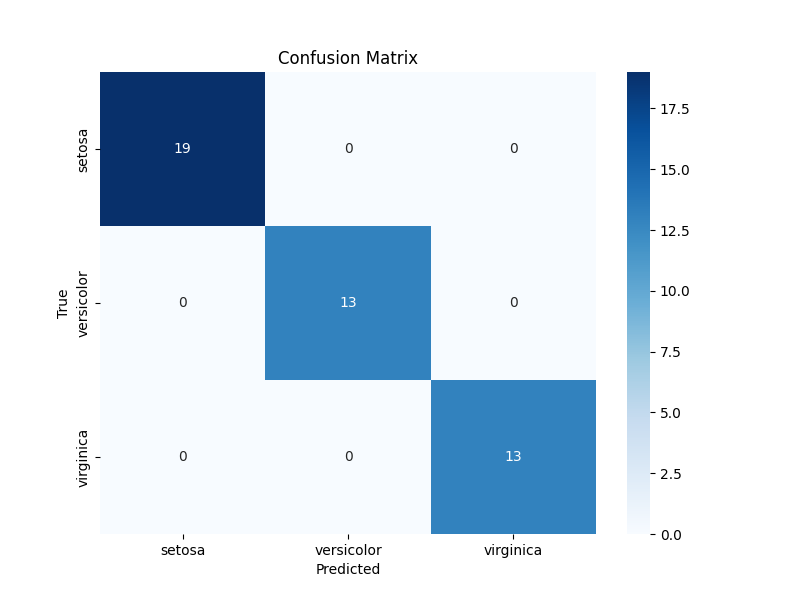
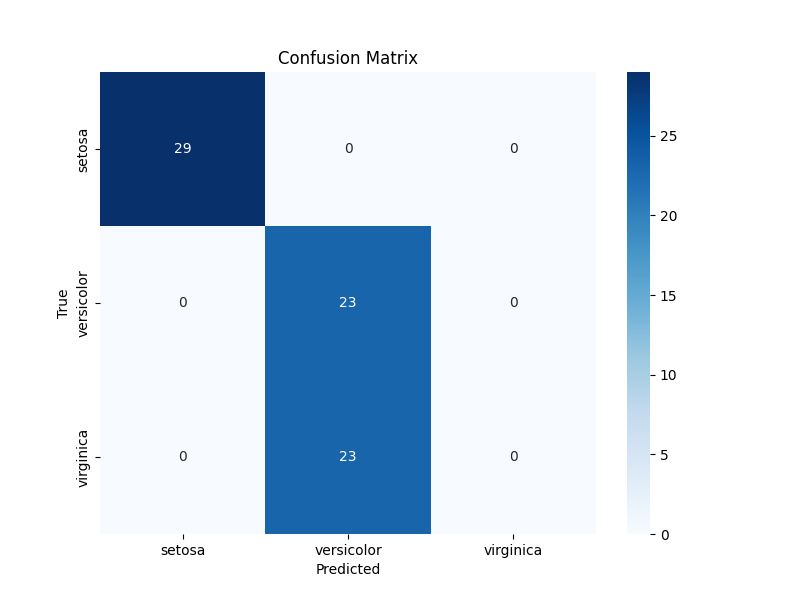
adding autoscaling with gridsearch

diff --git a/iris-dt.py b/iris-dt.py
@@ -3,6 +3,7 @@ import numpy as np
 import pandas as pd
 import seaborn as sns
 import matplotlib.pyplot as plt
+from sklearn.model_selection import GridSearchCV
 from sklearn.datasets import load_iris
 from sklearn.model_selection import train_test_split
 from sklearn.tree import DecisionTreeClassifier
@@ -22,28 +23,41 @@ X = iris.data
 y = iris.target
 
 # Split the data into training and testing sets
-X_train, X_test, y_train, y_test = train_test_split(X, y, test_size=0.3, random_state=42)
+X_train, X_test, y_train, y_test = train_test_split(X, y, test_size=0.5, random_state=42)
+
+
 
 # Train a decision tree model
 mlflow.set_experiment('iris-decision-tree')
 mlflow.autolog()
 
 with mlflow.start_run():
-    max_depth = 5
+    max_depth = 1
     random_state = 42
     clf = DecisionTreeClassifier(max_depth=max_depth,random_state=random_state)
-    clf.fit(X_train, y_train)
+
+    param_grid = {
+    'max_depth' : [1,2,3,4,5,6],
+    'random_state' : [42,45,1,5,6],
+    # 'n_estimator' : [10,20,30,40,100]
+    }
+
+
+    grid_search = GridSearchCV(estimator=clf, param_grid=param_grid, cv=5, n_jobs=-1, verbose=2,)
+
+    grid_search.fit(X_train, y_train)
+    # clf.fit(X_train, y_train)
 
     # Predict the test set results
-    y_pred = clf.predict(X_test)
+    # y_pred = clf.predict(X_test)
 
     # Calculate classification metrics
     print("Classification Report:")
-    classi_report = classification_report(y_test, y_pred)
-    accuracy = accuracy_score(y_test, y_pred)
-    precision = precision_score(y_test, y_pred, average='macro')
-    recall = recall_score(y_test, y_pred, average='macro')
-    f1 = f1_score(y_test, y_pred, average='macro')
+    # classi_report = classification_report(y_test, y_pred)
+    # accuracy = accuracy_score(y_test, y_pred)
+    # precision = precision_score(y_test, y_pred, average='macro')
+    # recall = recall_score(y_test, y_pred, average='macro')
+    # f1 = f1_score(y_test, y_pred, average='macro')
     # mlflow.log_metric('accuracy',accuracy)
     # mlflow.log_metric('precision',precision)
     # mlflow.log_metric('recall',recall)
@@ -52,15 +66,15 @@ with mlflow.start_run():
 
 
     # Compute the confusion matrix
-    conf_matrix = confusion_matrix(y_test, y_pred)
+    # conf_matrix = confusion_matrix(y_test, y_pred)
 
     # Plot the confusion matrix using seaborn
-    plt.figure(figsize=(8, 6))
-    sns.heatmap(conf_matrix, annot=True, fmt='d', cmap='Blues', xticklabels=iris.target_names, yticklabels=iris.target_names)
-    plt.xlabel('Predicted')
-    plt.ylabel('True')
-    plt.title('Confusion Matrix')
-    plt.savefig('confusion_matrix.png')
+    # plt.figure(figsize=(8, 6))
+    # sns.heatmap(conf_matrix, annot=True, fmt='d', cmap='Blues', xticklabels=iris.target_names, yticklabels=iris.target_names)
+    # plt.xlabel('Predicted')
+    # plt.ylabel('True')
+    # plt.title('Confusion Matrix')
+    # plt.savefig('confusion_matrix.png')
 
     # artifect
     # mlflow.log_artifact('confusion_matrix.png')
